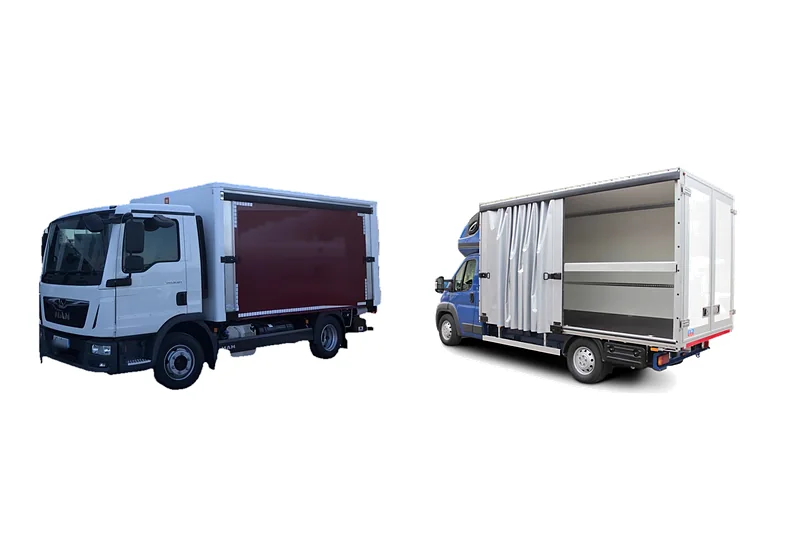
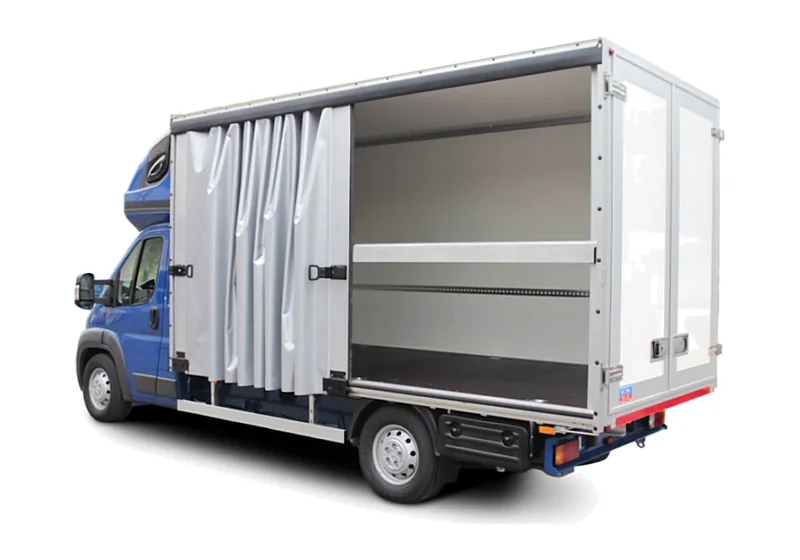
Italszállító KIT csoportkép: csak a kék, oldalt nyitott ponyvás autó, nagyban
Claude-Session: https://claude.ai/code/session_01GqcGcrqDWYvNfyrVUkczEM

diff --git a/scripts/csoportkepek.py b/scripts/csoportkepek.py
@@ -44,9 +44,8 @@ PHOTOS = {
                                       "../data/forras/hatso_ajto_4szarnyu_csoportkep.png"],
     # a Quadris által küldött dobozos felépítmény fotó (a háttérben álló dobozok nélkül, MI-vel nagyítva, élesítve)
     "zart-dobozos-es-hutos-profilok": ["../data/forras/dobozos_profilok_csoportkep.png"],
-    # a Quadris által küldött két italszállító fotó egymás mellett (a MAN dobozos autó háttere MI-vel eltávolítva, a doboz felirata kivéve,
-    # MI-vel nagyítva, élesítve)
-    "italszallito-kit": ["row", "../data/forras/italszallito_csoportkep_1.png", "../data/forras/italszallito_csoportkep_2.png"],
+    # a Quadris által küldött kék italszállító fotó (oldalt nyitott ponyva, hátsó ajtók), MI-vel nagyítva, nagyban
+    "italszallito-kit": ["cover", "../data/forras/italszallito_csoportkep_2.png"],
 }
 
 
